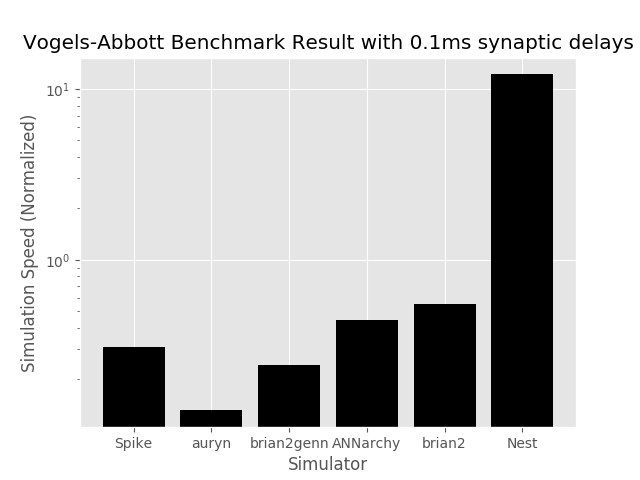
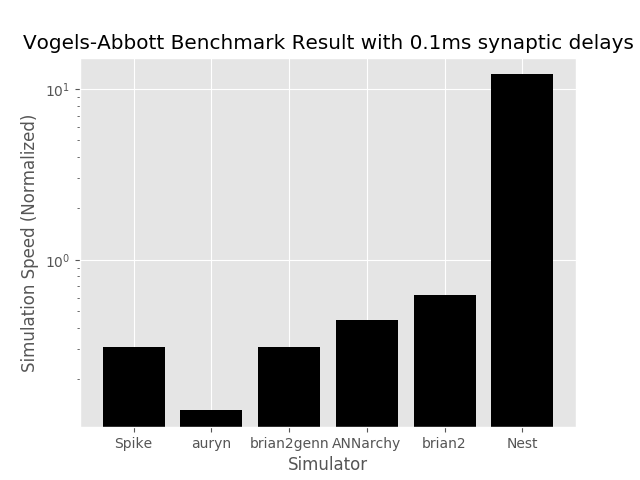
Addition of missing factor in brian/genn model. Update to relative speed as a result. ipynb description is also being updated.

Changed region(s): [[0.6562, 0.5938, 0.75, 0.6562], [0.4062, 0.7188, 0.5, 0.7812]]

diff --git a/Benchmarks/VogelsAbbott/brian2/COBA.py b/Benchmarks/VogelsAbbott/brian2/COBA.py
@@ -53,13 +53,12 @@ defaultclock.dt = timestep*ms
 NE = 3200
 NI = NE/4
 
-scale = 1
-we = scale*0.4*nS
-wi = scale*5.1*nS
+gl = 10.0*nS
+we = 0.4*gl
+wi = 5.1*gl
 tau_ampa  = 5.0*ms
 tau_gaba = 10.0*ms
 
-gl = 10.0*nS
 el = -60.*mV
 er = -80.*mV
 vt = -50.*mV
@@ -124,6 +123,13 @@ else:
     totaltime = timeit.default_timer() - starttime
     print("Mean Network Firing Rate: " + str(len(s_mon.i) / (4000.0*simtime)) + "Hz")
     print("Real Time Sim: " + str(totaltime) + "s")
-    #plot(s_mon.t/ms, s_mon.i, ',k')
+    indices = np.asarray(s_mon.i)
+    times = np.asarray(s_mon.t)
+    
+    # Writing out spikes
+    with open("spikes.out", "w") as f:
+        for index in range(len(indices)):
+            f.write(str(indices[index]) + "\t" + str(times[index]) + "\n")
+   #plot(s_mon.t/ms, s_mon.i, ',k')
     #xlabel('Time (ms)')
 print("Complete.")

diff --git a/Benchmarks/VogelsAbbott/brian2genn/COBA.py b/Benchmarks/VogelsAbbott/brian2genn/COBA.py
@@ -56,13 +56,12 @@ defaultclock.dt = timestep*ms
 NE = 3200
 NI = NE/4
 
-scale = 1
-we = scale*0.4*nS
-wi = scale*5.1*nS
+gl = 10.0*nS
+we = 0.4*gl
+wi = 5.1*gl
 tau_ampa  = 5.0*ms
 tau_gaba = 10.0*ms
 
-gl = 10.0*nS
 el = -60.*mV
 er = -80.*mV
 vt = -50.*mV
@@ -127,6 +126,13 @@ else:
     totaltime = timeit.default_timer() - starttime
     print("Mean Network Firing Rate: " + str(len(s_mon.i) / (4000.0*simtime)) + "Hz")
     print("Real Time Sim: " + str(totaltime) + "s")
-    #plot(s_mon.t/ms, s_mon.i, ',k')
+    indices = np.asarray(s_mon.i)
+    times = np.asarray(s_mon.t)
+    
+    # Writing out spikes
+    with open("spikes.out", "w") as f:
+        for index in range(len(indices)):
+            f.write(str(indices[index]) + "\t" + str(times[index]) + "\n")
+   #plot(s_mon.t/ms, s_mon.i, ',k')
     #xlabel('Time (ms)')
 print("Complete.")

diff --git a/Benchmarks/VogelsAbbott/ANNarchy/COBA.py b/Benchmarks/VogelsAbbott/ANNarchy/COBA.py
@@ -114,6 +114,13 @@ else:
     m = Monitor(P, ['spike'])
     simulate(simtime*1000.0, measure_time=True)
     data = m.get('spike')
+    # Outputting spikes
+    with open("./spikes.out", "w") as f:
+        for n in range(3200):
+            d = data[n]
+            for spiketime in d:
+                f.write(str(n) + "\t" + str(spiketime) + "\n")
+
 
     # ###########################################
     # Make plots

diff --git a/README.md b/README.md
@@ -1,6 +1,8 @@
 # SNNSimulatorComparison
 Comparison of Spiking Neural Network Simulator Performance
 
+__Note: Tests are still being conducted on the benchmark model for each simulator and the results may change as the models are corrected__
+
 Simulators are included as git submodules.
 Currently the simulators being compared are:
 - [NEST Simulator (using pyNEST)](https://github.com/nest/nest-simulator/)
